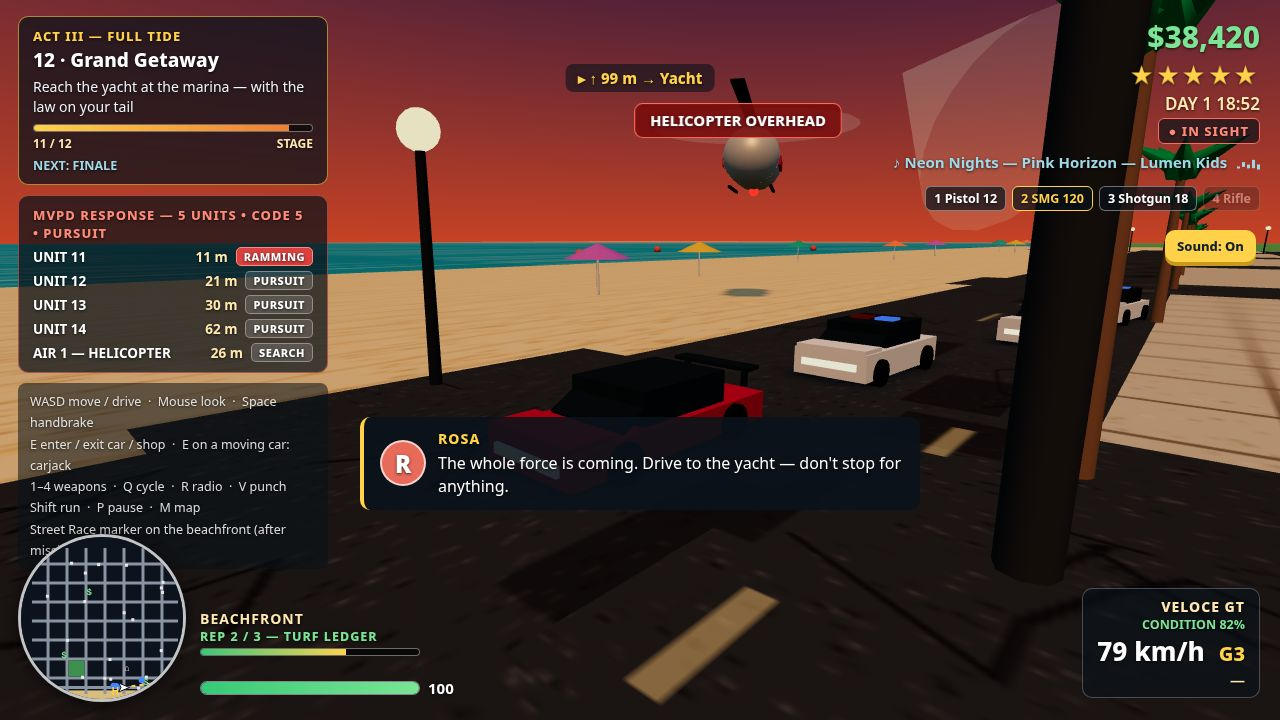
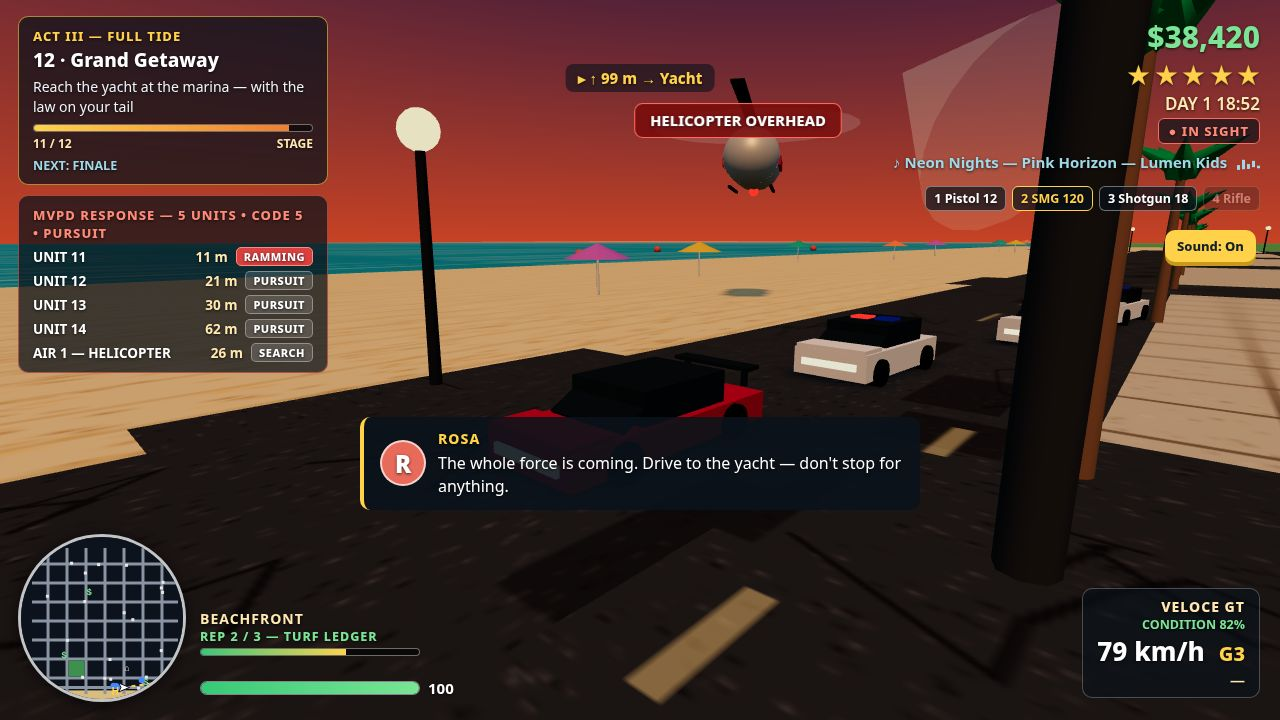
Marina Verde v2: fix screenshot nits A, B1, B2 (HUD legibility + night sky)
- A: controls hint no longer clips into the minimap (shot-mode hides it;
  in normal play the whole hint hides when the left column would reach
  the minimap, throttled 4 Hz)
- B1: brighter night sky (top/horizon/fog, sun + hemi intensity) so the
  night chase scene stays readable
- B2: lighter shop-overlay backdrop so the street scene + HUD behind it
  stay readable; shop panel itself near-opaque
- Re-capture all 4 screenshots (1280x720 JPEG, <=256 KiB each)

Validated: playtest 88/88 PASS, 0 console/page errors; perf update-JS
median 0.8 ms, 468 draw calls; makefun check 4 passed, 0 failed.

diff --git a/game/src/hud.js b/game/src/hud.js
@@ -60,6 +60,12 @@ export function createHud() {
     mvpdPanel: el('mvpd-panel'),
     mvpdList: el('mvpd-list'),
     mvpdCount: el('mvpd-count'),
+    leftCol: el('left-col'),
+    controlsHint: el('controls-hint'),
+    minimapWrap: el('minimap-wrap'),
+    _hintT: -1, // throttle for the hint-visibility check (v2fix A)
+    _hintHidden: false,
+    _hintH: 0, // cached hint height (offsetHeight is 0 while hidden)
     sightBadge: el('sight-badge'),
     repLabel: el('rep-label'),
     repFill: el('rep-fill'),
@@ -206,6 +212,36 @@ function updateSightBadge(hud, game) {
   }
 }
 
+// v2fix (A): keep the controls hint from ever reaching the minimap.
+// In shot mode the hint is hidden by CSS (body.shot-mode). In normal play
+// the left column grows with the MVPD panel; when its bottom would cross
+// the minimap's top edge, hide the WHOLE hint (no clipped text) and only
+// show it again once there is room for its full height. Throttled to 4 Hz
+// — the MVPD panel only changes at that rate anyway. No overflow:hidden on
+// #left-col: clipping mission/police info would be the same failure mode.
+function updateHintVisibility(hud, game) {
+  if (!hud.controlsHint || !hud.leftCol || !hud.minimapWrap) return;
+  if (game.time - hud._hintT < 0.25) return;
+  hud._hintT = game.time;
+  if (document.body.classList.contains('shot-mode')) {
+    if (!hud._hintHidden) { hud._hintHidden = true; hud.controlsHint.classList.add('hidden'); }
+    return;
+  }
+  const colBottom = hud.leftCol.getBoundingClientRect().bottom;
+  const mmTop = hud.minimapWrap.getBoundingClientRect().top;
+  if (!hud._hintHidden) {
+    hud._hintH = hud.controlsHint.offsetHeight;
+    if (colBottom > mmTop - 8) {
+      hud._hintHidden = true;
+      hud.controlsHint.classList.add('hidden');
+    }
+  } else if (mmTop - colBottom > (hud._hintH || 100) + 8) {
+    // Column (hint currently hidden) leaves room for the full hint again.
+    hud._hintHidden = false;
+    hud.controlsHint.classList.remove('hidden');
+  }
+}
+
 export function updateHud(hud, game) {
   const hp = Math.max(0, Math.round(game.health));
   if (hud._c.hp !== hp) {
@@ -262,6 +298,7 @@ export function updateHud(hud, game) {
   }
   updateMissionPanel(hud, game);
   updateMvpdPanel(hud, game);
+  updateHintVisibility(hud, game);
   updateSightBadge(hud, game);
   if (game.state === 'map') drawMap(hud, game);
   // GPS (DESIGN §9.2): distance + direction arrow to the objective.

diff --git a/game/index.html b/game/index.html
@@ -78,6 +78,10 @@
   .chip.lock { background: #7a2fd0; border-color: #c96fd0; }
   .chip.block { background: #2f6fd0; border-color: #9fd8e8; }
   #controls-hint { font-size: 12.5px; line-height: 1.7; color: rgba(255,255,255,.85); background: rgba(10,18,26,.55); border-radius: 8px; padding: 8px 12px; }
+  /* v2fix (A): shot mode hides the hint (title screen already lists the
+     controls); .hidden is toggled by hud.js when the left column would
+     otherwise reach the minimap — the whole hint hides, never clips. */
+  body.shot-mode #controls-hint, #controls-hint.hidden { display: none; }
   #gps-dist { position: absolute; left: 50%; top: 64px; transform: translateX(-50%); font-size: 15px; font-weight: 800; color: #ffd24a; background: rgba(10,18,26,.6); border-radius: 8px; padding: 4px 12px; }
   #heli-warning { position: absolute; left: 50%; top: 104px; transform: translateX(-50%); background: rgba(120,10,10,.85); border: 1px solid #ff6a5c; border-radius: 8px; padding: 6px 14px; font-size: 14px; font-weight: 800; color: #fff; opacity: 0; transition: opacity .2s; animation: pulse .7s infinite alternate; }
   #heli-warning.show { opacity: 1; }
@@ -121,6 +125,12 @@
   #title .panel { margin-top: -40px; }
 
   /* --- Shop overlay --- */
+  /* v2fix (B2): lighter backdrop ONLY for #shop so the scene + HUD behind
+     it stay readable; the shop panel itself gets a near-opaque background
+     so its items stay legible. HUD z-index is NOT raised (it must not
+     cover the shop panel). Other overlays keep the dark backdrop. */
+  #shop { background: linear-gradient(160deg, rgba(8,20,32,.55), rgba(20,8,20,.52)); }
+  #shop .panel { background: rgba(10,18,26,.92); border: 1px solid rgba(255,210,74,.45); border-radius: 14px; }
   #shop .panel { max-width: 520px; }
   #shop h1 { font-size: 34px; }
   #shop-rep { font-size: 14px; color: #7be495; margin-top: 6px; font-weight: 600; }

diff --git a/game/src/world.js b/game/src/world.js
@@ -267,7 +267,7 @@ export function buildWorld(scene) {
   const SKY_MODES = {
     day: { top: 0x3f7fc9, horizon: 0xffd9a0, fog: 0x9fd0e8, sun: 0xffe8b8, sunI: 2.1, hemiI: 0.95, ball: 0xfff2c0, roadRough: 0.9 },
     sunset: { top: 0x5a4a8a, horizon: 0xff9a5c, fog: 0xd88a6a, sun: 0xffb36a, sunI: 1.6, hemiI: 0.7, ball: 0xffc46a, roadRough: 0.5 },
-    night: { top: 0x0a1230, horizon: 0x1a2a55, fog: 0x0e1830, sun: 0x8aa8ff, sunI: 0.5, hemiI: 0.5, ball: 0xd8e4ff, roadRough: 0.45 },
+    night: { top: 0x0d1738, horizon: 0x24365f, fog: 0x16233f, sun: 0x8aa8ff, sunI: 0.8, hemiI: 0.85, ball: 0xd8e4ff, roadRough: 0.45 },
   };
   world.skyMode = 'day';
   world.setSkyMode = function setSkyMode(mode) {

diff --git a/game/src/main.js b/game/src/main.js
@@ -95,6 +95,13 @@ export async function boot() {
   const shotName = params.get('shot');
   const game = createGame();
   game.shotMode = shotName;
+  // v2fix (A): in screenshot mode the title screen already shows the
+  // controls, so hide the hint panel — with 5 MVPD units it grew into the
+  // minimap and its last line was clipped. Only the 4 known shot names
+  // trigger this; arbitrary ?shot= values leave the HUD untouched.
+  if (['cover', 'chase', 'street', 'hud'].includes(shotName)) {
+    document.body.classList.add('shot-mode');
+  }
 
   const renderer = new THREE.WebGLRenderer({ antialias: true });
   renderer.setSize(window.innerWidth, window.innerHeight);
